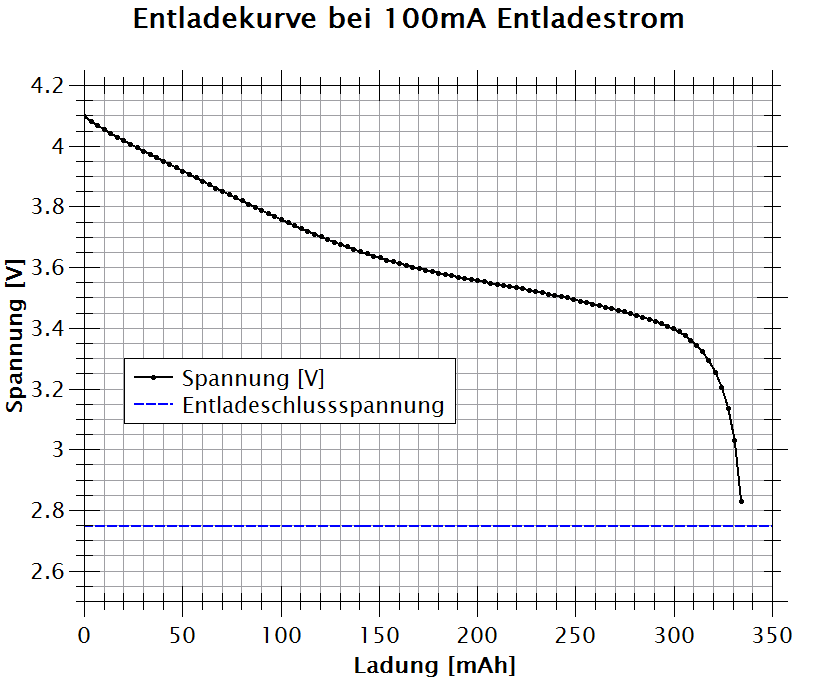
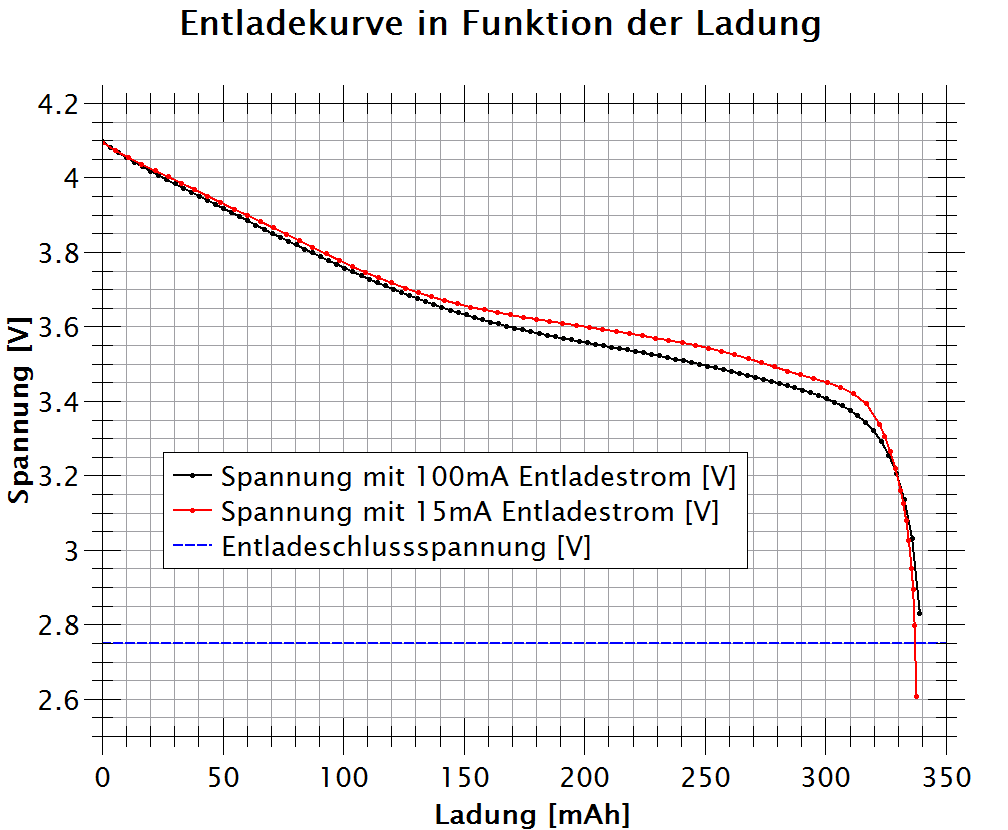
Energieversorgig fertig
Mal luege öb das dräcks Github wider abstürzt.

Changed region(s): [[0.0, 0.0929, 0.978, 1.0], [0.1528, 0.0, 0.8557, 0.0619]]

diff --git a/documentation/03_technical_report/40_hardware.tex b/documentation/03_technical_report/40_hardware.tex
@@ -33,18 +33,18 @@ Diese Daten zeigen, dass mit einer Leistung von $1W$ die Versorgungsspannung des
 
 
 \subsubsection*{Entladevorgang}
-Um die Batterie zu entladen wurde eine $30\Omega$ Last angeschlossen und dabei ein Entladestrom von $100mA$ erreicht. Dieser Entladestrom entspricht der Leistung, die verbraucht wird, wenn der Print ein Audiofile abspielt. Die Messungen wurde bis zur vollständigen Entladung vollzogen. 
+Um die Batterie zu entladen wurden 2 Messvorgänge durchgeführt. Beim ersten Messvorgang wurde eine Last von $30\Omega$ angeschlossen. Diese Last entspricht einem konstanten Entlagestom von $100mA$, was dem Stromverbrauch unserer Schaltung während dem Abspielen der Musik entspricht. Beim zweiten Messvorgang wurde eine Last von $220\Omega$ angeschlossen, welche einen konstanten Entlagestrom von $15mA$ ergibt. Dieser Entladestrom entspricht dem Verbrauch des Dojos im Ruhestatus. Die Messungen wurde bis zur vollständigen Entladung vollzogen. 
 In den Abbildungen \ref{fig:SpannungZuZeit} und  \ref{fig:SpannungZuLadung} ist die Entladekurve für die Spannung im Vergleich zur Zeit und zur Ladung abgebildet:
 
 \begin{figure}[h]
-	\centering
-	\includegraphics[width=\textwidth]{graphics/SpannungzuZeit.png}
-	\caption{Entladekurve bei einer Belastung von 30$\Omega$}
+	 \subfigure[Entladekurve bei $100mA$ Entladestrom]{\includegraphics[width=0.49\textwidth]{graphics/SpannungzuZeit}} 
+    \subfigure[Entladekurve bei $15mA$ Entladestrom]{\includegraphics[width=0.49\textwidth]{graphics/SpannungzuZeit15}}
+	\caption{Entladekurve der Batterie in Funktion der Zeit}
 	\label{fig:SpannungZuZeit}
 \end{figure}
 
 Wie in der Abbildung \ref{fig:SpannungZuZeit} ersichtlich, hat die Batterie ein Tiefenentladungsschutz bei $2.75V$. Sobald diese Spannung erreicht ist, wird die Spannungsversorgung gekappt, und die Spannung sinkt auf $0V$.\\
-Die gesammte Entladung dauert $3h 26min$. Dies entspricht der Laufzeit, die erreicht wird, wenn der Dojo permanent Audiofiles abspielt.
+Die gesammte Entladung dauert $3h 26min$ bei einem Entladestrom von $100mA$ und $20h50min$ bei einem Entladestrom von 15mA. Die effektive Laufzeit des Dojos befindet sich zwischen diesen Werten. Sie ist abhängig davo, wie stark der Dojo belastet wird, dass heisst, in welchem zyklus neue Audiofiles gestartet werden, und wie lange diese dauern.
 
 \newpage
 
@@ -55,7 +55,7 @@ Die gesammte Entladung dauert $3h 26min$. Dies entspricht der Laufzeit, die erre
 	\label{fig:SpannungZuLadung}
 \end{figure}
 
-Die Abbildung \ref{fig:SpannungZuLadung} zeigt die abgegebene Ladung im Vergleich zur Batteriespannung. Sie zeigt, dass bei einem Belastung von 100mA die Ladung der Batterie $334mAh$ beträgt. Dies entspricht nicht der angegebenen Ladungskapazität von 600mAh, die der Hersteller verspricht. Die Messung zeigt uns, das der Hersteller die Angaben zu optimistisch ermittelt hat.
+Die Abbildung \ref{fig:SpannungZuLadung} zeigt die abgegebene Ladung im Vergleich zur Batteriespannung. Sie zeigt, dass bei einer Belastung von 100mA und bei einer Belastung von 15mA die Ladung der Batterie im Schnitt $335mAh$ beträgt. Dies entspricht nicht der angegebenen Ladungskapazität von 600mAh, die der Hersteller verspricht. Die Messung zeigt uns, das der Hersteller die Angaben zu optimistisch ermittelt hat. Die Messung zeigt uns auch, dass die benötigte Spannung von $3.3V$ lange gehalten werden kann und erst bei einem Bezug von $320mAh$ die Spannung zusammenfällt.
 
 \newpage
 
@@ -70,7 +70,7 @@ Beim Aufladen der Batterie wurde eine Spannung von $5V$ verwendet. Dabei wurde v
 	\label{fig:Ladeleistung}
 \end{figure}
 
-Die gestrichelte Fläche repräsentiert die Verlustleistung beim Laden des Dojos.
+Die gestrichelte Fläche repräsentiert die Verlustleistung der Ladeschaltung beim Laden des Dojos.
 Wir erhalten einen Wirkunsggrad von
 \begin{equation}
 \eta = 83.39%
